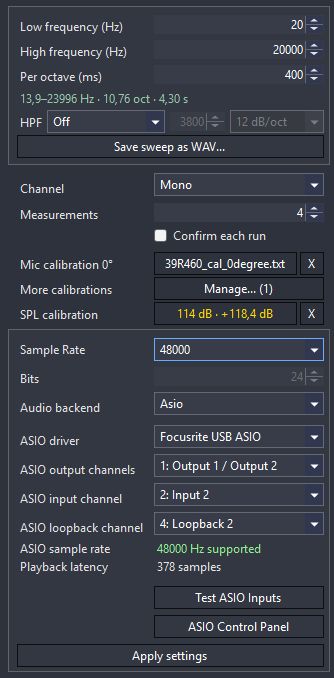
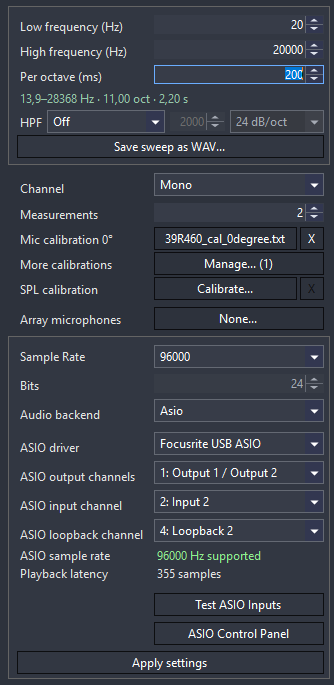
Re-take the Record Settings figures on the current panel (#134)
Both figures still showed the panel of two releases ago: the *Confirm each run*
checkbox that #132 removed, and no **Array microphones** row, which #130 added and
the manual has described since yesterday. A reader following section 4 would have
looked for a row the picture does not have, next to a checkbox that no longer
exists.

The panel is re-shot on a configured rig — 96 kHz, the array row reading *None...*
— and lands in both places it is used: `measurement-options` in the reference, and
the manual's composition beside the shell's transport column, whose six numbered
callouts now sit on the panel's own groups (the calibrations box gained the array
row; nothing else moved). The Sample Rate row keeps its cyan outline, which is what
section 4's "(outlined)" points at.

The tool's README says why this one is still hand-taken: it runs in portable mode
with its own empty settings, so it would photograph a panel of defaults instead of
a rig, which is the same reason `measurement-options` is asked for by name with the
interface attached.

Changed region(s): [[0.0299, 0.031, 0.988, 0.9292], [0.4192, 0.9602, 0.6287, 0.9912], [0.3293, 0.1239, 0.4491, 0.1549]]

diff --git a/tools/Resonalyze.Screenshots/README.md b/tools/Resonalyze.Screenshots/README.md
@@ -67,6 +67,12 @@ remove that file.
 - The manual figures that came from the forum article: the microphone photo, the MMM
   captures, the hybrid pair, and the open PEQ menu — a context menu is a window of
   its own that neither capture path reaches.
+- **`manual/record-settings`** — the same panel as `measurement-options`, but composed
+  beside the shell's transport column with the six numbered callouts drawn on. The
+  panel half has to be shot by hand for the reason `measurement-options` is asked for
+  by name: this tool runs in portable mode with its own empty settings, so it would
+  photograph a panel of defaults rather than a configured rig. The transport half is
+  cropped from the shell shot; the callouts follow the panel's own group geometry.
 
 These are committed artifacts. Re-take them by hand when they go stale.
 
